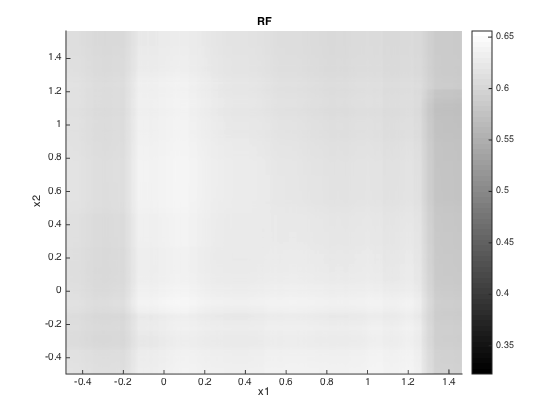
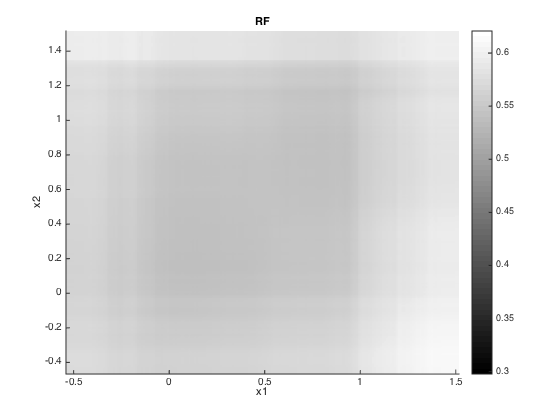
sparse parity posterior heat map w/ 200 points

diff --git a/Results/Plot_sparse_parity_posteriors.html b/Results/Plot_sparse_parity_posteriors.html
@@ -6,7 +6,7 @@
    <!--
 This HTML was auto-generated from MATLAB code.
 To make changes, update the MATLAB code and republish this document.
-      --><title>Plot Sparse Parity Posterior Heat Maps</title><meta name="generator" content="MATLAB 8.4"><link rel="schema.DC" href="http://purl.org/dc/elements/1.1/"><meta name="DC.date" content="2016-01-04"><meta name="DC.source" content="Plot_sparse_parity_posteriors.m"><style type="text/css">
+      --><title>Plot Sparse Parity Posterior Heat Maps</title><meta name="generator" content="MATLAB 8.4"><link rel="schema.DC" href="http://purl.org/dc/elements/1.1/"><meta name="DC.date" content="2016-01-11"><meta name="DC.source" content="Plot_sparse_parity_posteriors.m"><style type="text/css">
 html,body,div,span,applet,object,iframe,h1,h2,h3,h4,h5,h6,p,blockquote,pre,a,abbr,acronym,address,big,cite,code,del,dfn,em,font,img,ins,kbd,q,s,samp,small,strike,strong,sub,sup,tt,var,b,u,i,center,dl,dt,dd,ol,ul,li,fieldset,form,label,legend,table,caption,tbody,tfoot,thead,tr,th,td{margin:0;padding:0;border:0;outline:0;font-size:100%;vertical-align:baseline;background:transparent}body{line-height:1}ol,ul{list-style:none}blockquote,q{quotes:none}blockquote:before,blockquote:after,q:before,q:after{content:'';content:none}:focus{outine:0}ins{text-decoration:none}del{text-decoration:line-through}table{border-collapse:collapse;border-spacing:0}
 
 html { min-height:100%; margin-bottom:1px; }
@@ -127,6 +127,7 @@ ymax = max(X(:,2));
     i = i + 1;
 <span class="keyword">end</span>
 </pre><pre class="codeoutput">mtry = 1
+Starting parallel pool (parpool) using the 'local' profile ... connected to 2 workers.
 mtry = 3
 mtry = 5
 mtry = 10
@@ -135,7 +136,7 @@ mtry = 20
 [~,rerf.minIdx] = min(rerf.Lhat(end,:));
 [~,rerfdn.minIdx] = min(rerfdn.Lhat(end,:));
 [~,rf_rot.minIdx] = min(rf_rot.Lhat(end,:));
-</pre><h2>Plot posterior heat maps<a name="5"></a></h2><pre class="codeinput">npoints = 1000;
+</pre><h2>Plot posterior heat maps<a name="5"></a></h2><pre class="codeinput">npoints = 200;
 [xgv,ygv] = meshgrid(linspace(xmin,xmax,npoints),linspace(ymin,ymax,npoints));
 X = xgv(:);
 Y = ygv(:);
@@ -254,7 +255,7 @@ end
 [~,rf_rot.minIdx] = min(rf_rot.Lhat(end,:));
 
 %% Plot posterior heat maps
-npoints = 1000;
+npoints = 200;
 [xgv,ygv] = meshgrid(linspace(xmin,xmax,npoints),linspace(ymin,ymax,npoints));
 X = xgv(:);
 Y = ygv(:);

diff --git a/Code/Plots/Plot_sparse_parity_posteriors.m b/Code/Plots/Plot_sparse_parity_posteriors.m
@@ -75,7 +75,7 @@ end
 [~,rf_rot.minIdx] = min(rf_rot.Lhat(end,:));
 
 %% Plot posterior heat maps
-npoints = 1000;
+npoints = 200;
 [xgv,ygv] = meshgrid(linspace(xmin,xmax,npoints),linspace(ymin,ymax,npoints));
 X = xgv(:);
 Y = ygv(:);
